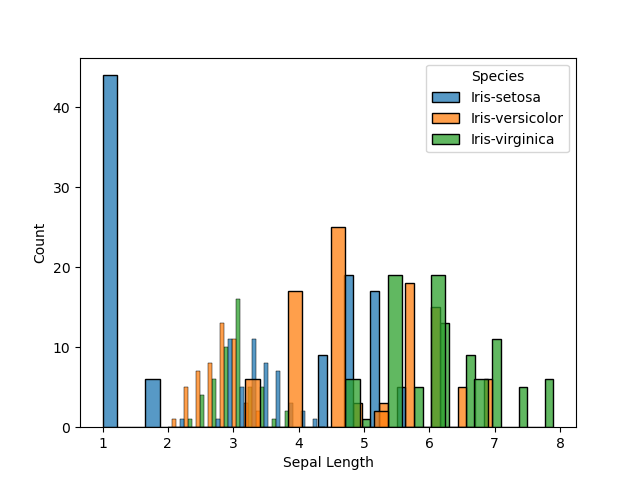
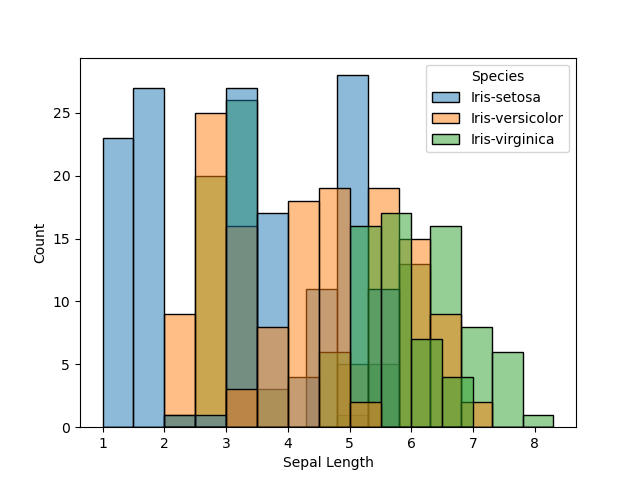
update histogram output

diff --git a/variablemodule.py b/variablemodule.py
@@ -36,5 +36,9 @@ def printfielddata():
 def gethisto():
     for name in datafields:
         if name != species:
-            sns.histplot(data=dataf, x=name, hue=species, multiple="dodge")
+            sns.histplot(data=dataf, x=name, hue=species, binwidth=0.5)
             plt.savefig(name+ '.png')
+
+def createsimplehist():
+    dataf.hist()
+    plt.savefig(combinedhistso.png)
